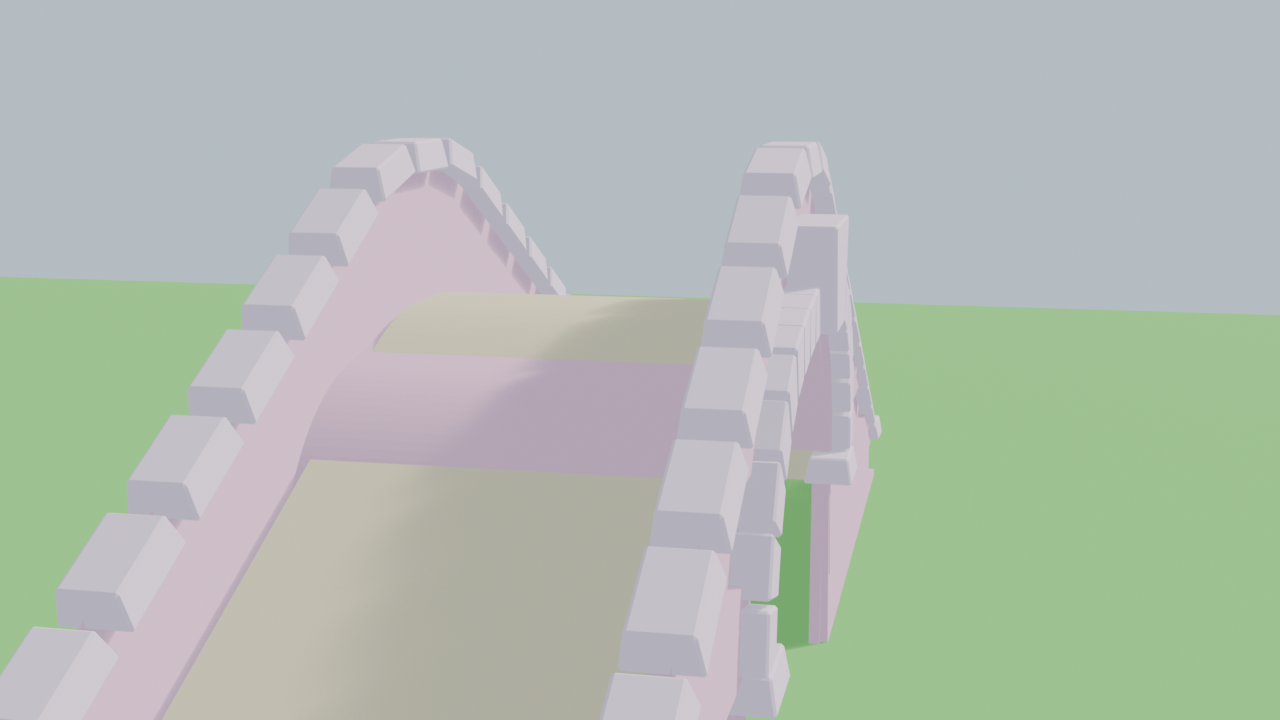
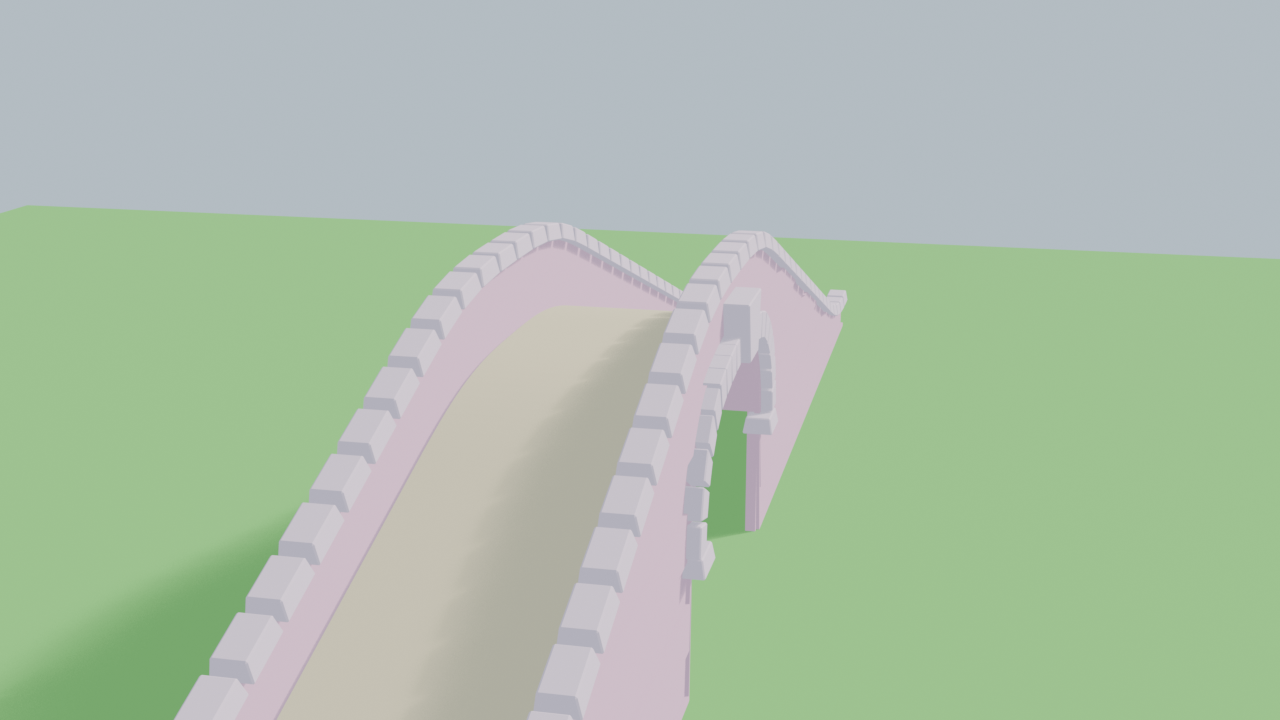
The preview reads the game's numbers instead of copying them
Peer review found the five committed renders were of a bridge the game does
not build: HUMP_BLEND 0.15 against the branch's 0.25, COURSE_RECESS 0.09
against 0.06, and a ramp run taken from the Engineer's branch. The build
script has always read its constants with ts_const; the render script typed
them. Same "two definitions kept in step by hand" this branch fixed in the
parapet an hour earlier, and the same fix: one owner, everyone else asks.

scripts/dump-bridge-constants.mts imports the game's own modules, evaluates
them and prints JSON; the Python reads it as a subprocess, so there is no
generated file to go stale. A regex could not have done this — BRIDGE_RAMP_
GRADIENT is an expression over ENTRANCE_RAMP, BRIDGE_RISE a sum across three
modules, and profileDrop a function, which now arrives as a sampled table and
is interpolated rather than reimplemented in Python.

The preview therefore now draws 36.71 m, which is what THIS branch builds: the
40% shortening lives in #352, not here. Camera distances scale with the
bridge's own length, so the same shots stay framed when the two merge.

Eight shape constants gained `export` in bridges.ts for the dump to import.

Claude-Session: https://claude.ai/code/session_0159y2RedQ8h6oPYxovTEG7t

Changed region(s): [[0.0, 0.1833, 1.0, 1.0]]

diff --git a/src/world/train/bridges.ts b/src/world/train/bridges.ts
@@ -153,7 +153,7 @@ import type { MovingPlatform } from '../building/surfaces';
  * never to hide a walking child (GAME_DESIGN.md's "a small bridge does not
  * obscure a player walking on it"), high enough to read as a real stone
  * parapet rather than a kerb. */
-const PARAPET_HEIGHT = 0.72;
+export const PARAPET_HEIGHT = 0.72;
 
 /**
  * The hump height (above the local ground beside it) below which the
@@ -224,7 +224,7 @@ function parapetHeightFor(humpHeight: number): number {
  * the coping, which is what a child on a real humpback bridge looks like.
  * Going much past this starts eating her from the game's camera too.
  */
-const PARAPET_CROWN_LIFT = 0.45;
+export const PARAPET_CROWN_LIFT = 0.45;
 
 /**
  * Half-span (along the path) of the arch's flat crown — the stretch of
@@ -234,13 +234,13 @@ const PARAPET_CROWN_LIFT = 0.45;
  * gently curving rail line under the bridge still keeps every part of the
  * train under the full-height crown.
  */
-const ARCH_CLEAR_HALF = TRACK_CLEARANCE + 0.5;
+export const ARCH_CLEAR_HALF = TRACK_CLEARANCE + 0.5;
 
 /** Half-span (along the path) of the whole arch opening — abutment inner
  * faces stand here. `DECK_HALF_LENGTH` clears both fence lines with margin
  * (its own doc), so the tunnel swallows the entire fenced corridor and the
  * masonry only ever stands on ground the fence already forbids to feet. */
-const ARCH_SPAN_HALF = DECK_HALF_LENGTH;
+export const ARCH_SPAN_HALF = DECK_HALF_LENGTH;
 
 /**
  * The authored voussoir is cut as a wedge for one particular ring radius
@@ -303,7 +303,7 @@ const SHELL_STEP = 0.6;
  * it. What the texture cannot do is survive into a silhouette or catch a
  * shadow, and at 0.7 m a course does both from right across the park.
  */
-const COURSE_HEIGHT = 0.7;
+export const COURSE_HEIGHT = 0.7;
 
 /**
  * How far alternate courses are recessed **inward** from the wall's own outer
@@ -311,7 +311,7 @@ const COURSE_HEIGHT = 0.7;
  * footprint search proved clear, so the wall may get thinner than it but never
  * fatter.
  */
-const COURSE_RECESS = 0.06;
+export const COURSE_RECESS = 0.06;
 
 /** Pitch of the parapet collision-wall segments, metres. */
 const WALL_SEGMENT = 2.0;
@@ -437,14 +437,14 @@ function clamp01(value: number): number {
  * trapezoid's 0.56 peak leaves a third of the ceiling spare at the same
  * ramp length.
  */
-const HUMP_BLEND = 0.25;
+export const HUMP_BLEND = 0.25;
 
 /**
  * Normalised drop of the hump profile: 0 at the crown (`q = 0`), 1 at the
  * foot (`q = 1`), zero slope at both ends, cosine-blended trapezoid slope
  * in between — see {@link HUMP_BLEND}. The ONE owner of the hump's shape.
  */
-function profileDrop(q: number): number {
+export function profileDrop(q: number): number {
   const u = clamp01(q);
   const b = HUMP_BLEND;
   const total = 1 - b; // integral of the slope shape over [0, 1]

diff --git a/art/blend/bridge_stones_render.py b/art/blend/bridge_stones_render.py
@@ -1,25 +1,46 @@
 """Assembles a whole bridge out of the kit and renders it, for the eye.
 
-    blender --background --factory-startup --python art/blend/bridge_stones_render.py
+    npm run render:bridge
 
 ``bridge_stones_build.py`` makes three stones. Three stones tell you nothing
 about whether a *bridge* reads right, which is the only question Jim asked, so
-this builds the thing they are for: a 40%-shorter humpback with a three-centred
-arch, a modelled voussoir ring round the mouth and a modelled coping run over
-both parapets — and looks at it from the game's own 45° camera.
+this builds the thing they are for: a humpback with a three-centred arch, a
+modelled voussoir ring round the mouth and a modelled coping run over both
+parapets — and looks at it from the game's own 45 degree camera.
 
 It is a **preview**, not a shipped asset. The park builds this geometry itself
-(`src/world/train/bridges.ts`), swept along each crossing's own curve; this
-file exists so the shape could be judged before that code was written, and so
-it can be re-judged when a number moves. The arch maths below is deliberately
-the same derivation `bridges.ts` uses — if the two ever disagree, the render is
-the one that is wrong, because the park is what a child sees.
+(`src/world/train/bridges.ts`), swept along each crossing's own curve.
+
+## Every number here comes from the game. None is typed in.
+
+This file used to carry its own copy of the bridge's dimensions, and peer
+review of PR #360 found that the copies had already drifted: the committed
+renders were built with ``HUMP_BLEND`` 0.15 against the branch's 0.25,
+``COURSE_RECESS`` 0.09 against 0.06, and a ramp run taken from a different
+branch entirely. Five renders of a bridge the game does not build — offered as
+evidence of what it looks like.
+
+That is CLAUDE.md's "two definitions of one thing, kept in step by hand", and
+it is the same failure this branch had already fixed once in the parapet arc.
+So the numbers are now *asked for*: ``scripts/dump-bridge-constants.mts``
+imports the game's own modules, evaluates them and prints JSON, and this reads
+it. A regex could not have done it — ``BRIDGE_RAMP_GRADIENT`` is an expression
+over ``ENTRANCE_RAMP``, ``BRIDGE_RISE`` a sum across three modules, and
+``profileDrop`` a function, which is why that one arrives as a sampled table
+and is interpolated rather than reimplemented here.
+
+**This preview therefore shows whatever bridge this branch builds.** On
+`art/bridge-model` alone that is the full-length one, ~36.7 m: the 40%
+shortening lives in the Engineer's #352, not here. Merge the two and re-run,
+and the same script draws the short one with nothing edited.
 
 Renders land in ``art/renders/`` as the project already does.
 """
 
+import json
 import math
 import os
+import subprocess
 
 import bmesh
 import bpy
@@ -29,28 +50,54 @@ REPO = os.path.dirname(os.path.dirname(os.path.dirname(os.path.abspath(__file__)
 BLEND = os.path.join(REPO, "art", "blend", "bridgeStones.blend")
 RENDERS = os.path.join(REPO, "art", "renders")
 
-# --- the bridge this preview builds -----------------------------------------
-# Measured off `main`, not invented — see HANDOFF-bridge-model.md's table.
-ARCH_SPAN_HALF = 3.2       # DECK_HALF_LENGTH = FENCE_OFFSET + 1.2
-ARCH_CLEAR_HALF = 1.8      # TRACK_CLEARANCE + 0.5
-ARCH_CROWN_DIP = 0.18      # the chosen three-centred arch's dip at the clear span
-TRAIN_CLEARANCE_Y = 3.90
-BRIDGE_DECK_DEPTH = 0.16
-HEIGHT_MARGIN = 0.05
-ROAD_HALF = 1.6            # canonical seed's first bridge
-WALL_THICKNESS = 0.3
-PARAPET_HEIGHT = 0.72
-HUMP_BLEND = 0.15          # the Engineer's sprint-safe trim (provisional)
-PARAPET_CROWN_LIFT = 0.45  # the pronounced hump, on the part nobody walks on
-BRIDGE_RISE = 4.060
-COURSE_HEIGHT = 0.7
-COURSE_RECESS = 0.09
-COPING_HEIGHT = 0.28
-RAMP_RUN = 7.814           # the Engineer's contract: 15.157 -> 7.814 (#349)
 
-COPING_LENGTH = 0.86
-VOUSSOIR_PITCH = 0.42
-KEYSTONE_PITCH = 0.8
+def game_constants() -> dict:
+    """The bridge's real dimensions, straight out of the game's own modules.
+
+    Runs ``npm run dump:bridge-constants`` and parses its JSON. Deliberately a
+    subprocess rather than a checked-in generated file: a file is one more
+    thing that can be stale, and staleness is the entire bug this replaces.
+    """
+    out = subprocess.run(
+        ["npm", "run", "--silent", "dump:bridge-constants"],
+        cwd=REPO,
+        capture_output=True,
+        text=True,
+        check=True,
+    ).stdout
+    return json.loads(out[out.index("{"):])
+
+
+K = game_constants()
+
+ARCH_SPAN_HALF = K["ARCH_SPAN_HALF"]
+ARCH_CLEAR_HALF = K["ARCH_CLEAR_HALF"]
+ARCH_CROWN_DIP = K["ARCH_CROWN_DIP"]
+TRAIN_CLEARANCE_Y = K["TRAIN_CLEARANCE_Y"]
+BRIDGE_DECK_DEPTH = K["BRIDGE_DECK_DEPTH"]
+BRIDGE_RISE = K["BRIDGE_RISE"]
+WALL_THICKNESS = K["BRIDGE_WALL_THICKNESS"]
+PARAPET_HEIGHT = K["PARAPET_HEIGHT"]
+PARAPET_CROWN_LIFT = K["PARAPET_CROWN_LIFT"]
+COURSE_HEIGHT = K["COURSE_HEIGHT"]
+COURSE_RECESS = K["COURSE_RECESS"]
+COPING_HEIGHT = K["COPING_HEIGHT"]
+COPING_LENGTH = K["COPING_LENGTH"]
+VOUSSOIR_PITCH = K["VOUSSOIR_PITCH"]
+KEYSTONE_PITCH = K["KEYSTONE_PITCH"]
+RAMP_RUN = K["idealRampRun"]
+PROFILE = K["profile"]
+
+# `bridges.ts`'s own sampling-error margin on the worst ground under a crown.
+# Not in the dump because it is private to the crown solve and means nothing
+# without it; the preview stands on flat ground, where it is simply a constant
+# lift of the whole bridge.
+HEIGHT_MARGIN = 0.05
+
+# The canonical seed's first bridge. Deck width is genuinely per-bridge — it is
+# the path's own drawn width — so a preview has to pick one, and the Engineer's
+# contract names this as the figure to model proportions against.
+ROAD_HALF = 1.6
 
 HALF_ACROSS = ROAD_HALF + WALL_THICKNESS
 SOFFIT_CROWN = TRAIN_CLEARANCE_Y + HEIGHT_MARGIN + ARCH_CROWN_DIP  # above ground
@@ -58,7 +105,7 @@ CROWN_ROAD = SOFFIT_CROWN + BRIDGE_DECK_DEPTH
 
 
 # =============================================================================
-# The arch — the same three-centred derivation `bridges.ts` uses
+# The arch - the same three-centred derivation `bridgeStonework.ts` uses
 # =============================================================================
 
 R1 = (ARCH_CLEAR_HALF ** 2 + ARCH_CROWN_DIP ** 2) / (2 * ARCH_CROWN_DIP)
@@ -122,18 +169,18 @@ def ring_stones():
 
 
 def profile_drop(q: float) -> float:
-    """`bridges.ts`'s `profileDrop`, verbatim: 0 at the crown, 1 at the foot."""
+    """`bridges.ts`'s `profileDrop`, **interpolated from the game's own samples**
+    rather than reimplemented here — see this file's header. A second copy of
+    the hump's shape is exactly the class of drift that made the last set of
+    renders wrong.
+    """
     u = min(1.0, max(0.0, q))
-    b = HUMP_BLEND
-    total = 1 - b
-    if u < b:
-        w = u / 2 - (b / (2 * math.pi)) * math.sin(math.pi * u / b)
-    elif u <= 1 - b:
-        w = b / 2 + (u - b)
-    else:
-        v = u - (1 - b)
-        w = b / 2 + (1 - 2 * b) + v / 2 + (b / (2 * math.pi)) * math.sin(math.pi * v / b)
-    return w / total
+    x = u * (len(PROFILE) - 1)
+    i = int(x)
+    if i >= len(PROFILE) - 1:
+        return PROFILE[-1]
+    t = x - i
+    return PROFILE[i] + (PROFILE[i + 1] - PROFILE[i]) * t
 
 
 def road_y(along: float) -> float:
@@ -465,19 +512,29 @@ def setup_render():
     return cam
 
 
+# Each shot is (position, aim, lens, frames-the-whole-bridge?). The last flag
+# is why these are not plain coordinates: the bridge's length is now read from
+# the game rather than typed in, so it changes when `HUMP_BLEND` or the ramp
+# gradient does, and a camera parked at a fixed distance would slide off the
+# end of it. Whole-bridge shots pull back in proportion to the length; shots
+# about the tunnel mouth do not, because the mouth is the same size either way.
 SHOTS = {
-    # The game's own 45° iso view, from the side a walker approaches on.
-    "bridge-iso": ((15.0, -15.0, 12.0), (0.0, 0.0, 2.0), 45.0),
+    # The game's own 45 degree iso view, from the side a walker approaches on.
+    "bridge-iso": ((15.0, -15.0, 12.0), (0.0, 0.0, 2.0), 45.0, True),
     # Square on the tunnel mouth: the arch and its ring.
-    "bridge-arch": ((0.9, -16.0, 2.4), (0.0, 0.0, 2.6), 42.0),
+    "bridge-arch": ((0.9, -16.0, 2.4), (0.0, 0.0, 2.6), 42.0, False),
     # Straight along the deck: the coping run over the hump.
-    "bridge-coping": ((-14.0, -3.4, 6.4), (2.0, 0.0, 3.4), 45.0),
-    # A child's eye height at the ramp foot — the view the flank was reworked
+    "bridge-coping": ((-14.0, -3.4, 6.4), (2.0, 0.0, 3.4), 45.0, True),
+    # A child's eye height at the ramp foot - the view the flank was reworked
     # for. If the coursing does not read from here it does not read at all.
-    "bridge-flank": ((-9.5, -7.0, 1.2), (0.5, -2.6, 2.4), 40.0),
+    "bridge-flank": ((-9.5, -7.0, 1.2), (0.5, -2.6, 2.4), 40.0, False),
     # Flat side elevation: the hump silhouette and the arch together.
-    "bridge-silhouette": ((0.0, -48.0, 5.4), (0.0, 0.0, 2.4), 60.0),
+    "bridge-silhouette": ((0.0, -48.0, 5.4), (0.0, 0.0, 2.4), 60.0, True),
 }
+
+# The length the shot positions above were framed against. Only ever used as
+# the denominator of that proportion - never as a bridge dimension.
+SHOT_REFERENCE_LENGTH = 22.03
 
 
 def main() -> None:
@@ -494,8 +551,10 @@ def main() -> None:
           f"average ramp gradient {CROWN_ROAD / RAMP_RUN:.3f}")
 
     os.makedirs(RENDERS, exist_ok=True)
-    for name, (pos, target, lens) in SHOTS.items():
-        cam.location = Vector(pos)
+    span = 2 * RAMP_RUN_TOTAL
+    for name, (pos, target, lens, whole) in SHOTS.items():
+        scale = span / SHOT_REFERENCE_LENGTH if whole else 1.0
+        cam.location = Vector(pos) * scale
         cam.data.lens = lens
         look_at(cam, Vector(target))
         path = os.path.join(RENDERS, f"{name}.png")
